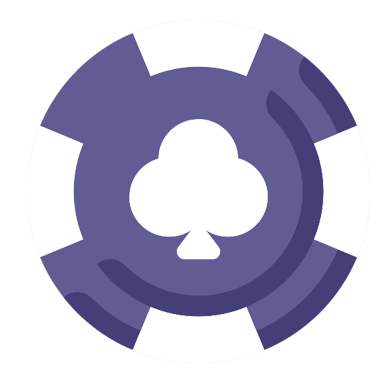
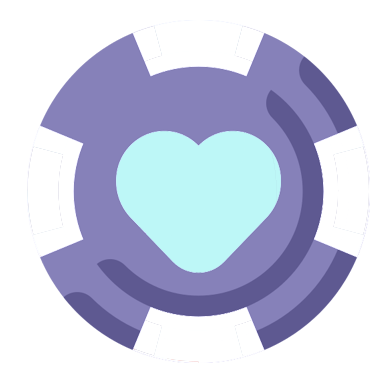
Agrega funcionalidad a personalización de fichas, boton ayuda

diff --git a/Entregable2/js/main.js b/Entregable2/js/main.js
@@ -10,12 +10,13 @@ document.addEventListener("DOMContentLoaded", function () {
     cellImage.src = "images/board-image.png";
     ctx.drawImage(cellImage, 10, 10, cellImage.width, cellImage.height);
     let game = new Game(canvas, ctx, boardRow, boardCol);
-    
+
     //asigno eventos 
 
     document.querySelector("#play").addEventListener('click', function (e) {
         game.doCountdown();
         game.initGame();
+        game.nextTurn();
         game.enableTokens();
         disableEnableButtonsBoard(true);
     });
@@ -27,7 +28,7 @@ document.addEventListener("DOMContentLoaded", function () {
         disableEnableButtonsBoard(false);
         game.clearCountdown();
     });
-    
+
 
     document.querySelector("#board-5").addEventListener('click', function (e) {
         game.setBoardRow(4);
@@ -62,23 +63,44 @@ document.addEventListener("DOMContentLoaded", function () {
     });
 
     document.querySelector("#ficha-2").addEventListener('click', function (e) {
-        
+        let img = new Image();
+        img.src = 'images/ficha-roja-2.png';
+        game.setImageToChangeRed(img);
+        game.initGame();
     });
     document.querySelector("#ficha-3").addEventListener('click', function (e) {
-        
+        let img = new Image();
+        img.src = 'images/ficha-roja-3.png';
+        game.setImageToChangeRed(img);
+        game.initGame();
     });
     document.querySelector("#ficha-4").addEventListener('click', function (e) {
-        
+        let img = new Image();
+        img.src = 'images/ficha-roja-4.png';
+        game.setImageToChangeRed(img);
+        game.initGame();
     });
     document.querySelector("#ficha-azul-2").addEventListener('click', function (e) {
-        
+        let img = new Image();
+        img.src = 'images/ficha-azul-2.png';
+        game.setImageToChangeBlue(img);
+        game.initGame();
     });
     document.querySelector("#ficha-azul-3").addEventListener('click', function (e) {
-        
+        let img = new Image();
+        img.src = 'images/ficha-azul-3.png';
+        game.setImageToChangeBlue(img);
+        game.initGame();
     });
     document.querySelector("#ficha-azul-4").addEventListener('click', function (e) {
-        
+        let img = new Image();
+        img.src = 'images/ficha-azul-4.png';
+        game.setImageToChangeBlue(img);
+        game.initGame();
     });
+    document.querySelector("#help").addEventListener('click', function (e){
+        document.querySelector("#help-text").innerHTML = "Elegí el tamaño de tablero que te guste. Tené en cuenta que para ganar tendrás que alinear tantas fichas cómo filas tenga tu tablero elegido. Por ejemplo, si elegís el tablero de 6 x 5, precisarás 5 fichas alineadas para ganar. Una vez elegido el tablero, si querés personalizá tu ficha. Cuando estés listo dale a Jugar! Recordá que tenés 1 minuto para resolver el juego"
+    })
 
 
     //reseteo el timer

diff --git a/Entregable2/js/game.js b/Entregable2/js/game.js
@@ -14,6 +14,9 @@ class Game {
         this.player1 = null;
         this.player2 = null;
         this.turn = null;
+        this.imageToChangeRed = null;
+        this.imageToChangeBlue= null;
+
     }
     //se setea las filas
     setBoardRow(br) {
@@ -29,7 +32,15 @@ class Game {
         this.clearCanvas();
         this.createBoard();
         this.createTokens();
-        this.nextTurn();
+       // this.nextTurn();
+    }
+    setImageToChangeRed(img) {
+        this.imageToChangeRed = img;
+        console.log("seteo de imagen hecho")
+    }
+    setImageToChangeBlue(img) {
+        this.imageToChangeBlue = img;
+        console.log("seteo de imagen hecho")
     }
 
     createTokens() {//creo las fichas para cada jugador        
@@ -41,26 +52,26 @@ class Game {
         for (let index = 0; index < this.maxTokens / 2; index++) {
             let posY = this.canvas.height / 3 + 20 * index;
             let posX = this.canvas.width / 2 - this.boardCol * 50 - 20;
-            this.createToken(colorPlayer1, posX, posY);
+            this.createToken(colorPlayer1, posX, posY, this.imageToChangeRed);
 
         }
         //creo las fichas azules
         for (let index = 0; index < this.maxTokens / 2; index++) {
             let posY = this.canvas.height / 3 + 20 * index;
             let posX = this.canvas.width / 2 + this.boardCol * 50 + 20;
-            this.createToken(colorPlayer2, posX, posY);
+            this.createToken(colorPlayer2, posX, posY, this.imageToChangeBlue);
         }
         this.disableTokens();
     }
 
 
-    createToken(color, posX, posY) { //creo una ficha del color correspondiente
-        let token = new Token(posX, posY, color, this.ctx);
+    createToken(color, posX, posY, imageToChange) { //creo una ficha del color correspondiente
+        let token = new Token(posX, posY, color, this.ctx, imageToChange);
         token.draw()
         this.tokens.push(token);//coloco las fichas en ele arreglo de fichas
 
     }
-    //cero el tablero y lo dibujo, así omo también la zona d elanzamiento de fichas
+    //cero el tablero y lo dibujo, así como también la zona d elanzamiento de fichas
     createBoard() {
         this.board = new GameBoard(this.canvas, this.ctx, this.boardRow, this.boardCol);
         this.board.drawBoard();
@@ -179,7 +190,7 @@ class Game {
 
             let minutes = Math.floor((distance % (1000 * 60 * 60)) / (1000 * 60));
             let seconds = Math.floor((distance % (1000 * 60)) / 1000);
-            document.querySelector("#timer-title").innerHTML ="Te quedan:";
+            document.querySelector("#timer-title").innerHTML = "Te quedan:";
             document.querySelector("#timer").innerHTML = "0" + minutes + ": " + ("0" + seconds).slice(-2);
             if (distance < 0) {
                 clearInterval(this.countdown);//reseteo

diff --git a/Entregable2/css/style.css b/Entregable2/css/style.css
@@ -53,57 +53,72 @@ img#logo {
 #game {
     display: flex;
 }
-i{
-    margin-right:5px;
+
+i {
+    margin-right: 5px;
 }
+
 #canvas {
-    box-shadow: 0 2px 5px rgba(0,0,0,0.07);
-    margin-right: 20px; 
-               
+    box-shadow: 0 2px 5px rgba(0, 0, 0, 0.07);
+    margin-right: 20px;
 }
-#timer{
+
+#timer {
     font-size: 45px;
     color: #504B83;
     margin-top: 0px;
 }
-#msj{
-    color: #504B83; 
+
+#msj {
+    color: #504B83;
     font-size: 24px;
     font-weight: 600;
 }
-#board-sizes p{
-    margin-bottom: 5px;;
+
+#board-sizes p {
+    margin-bottom: 5px;
+    ;
 }
-#board-5:disabled,#board-6:disabled, #board-7:disabled, #board-8:disabled,#board-5:disabled:hover,#board-6:disabled:hover, #board-7:disabled:hover, #board-8:disabled:hover{
+
+#board-5:disabled, #board-6:disabled, #board-7:disabled, #board-8:disabled, #board-5:disabled:hover, #board-6:disabled:hover, #board-7:disabled:hover, #board-8:disabled:hover {
     color: #b6b6b7;
-    border: 1px solid #b6b6b7; 
+    border: 1px solid #b6b6b7;
     background-color: white;
 }
 
-#tokens button{
+#tokens button {
     background-color: #fafafa;
-    border:none;
-    width:100px;
+    border: none;
+    width: 100px;
 }
-#tokens img{
-    width:70%;
+
+#tokens img {
+    width: 70%;
 }
-#tokens div{
-    display:flex;
+
+#tokens div {
+    display: flex;
 }
-#ficha-2:disabled, #ficha-3:disabled,#ficha-4:disabled,#ficha-azul-2:disabled,#ficha-azul-3:disabled, #ficha-azul-4:disabled{
+
+#ficha-2:disabled, #ficha-3:disabled, #ficha-4:disabled, #ficha-azul-2:disabled, #ficha-azul-3:disabled, #ficha-azul-4:disabled {
     filter: grayscale(1);
     opacity: 0.4;
 }
-#ficha-2, #ficha-3,#ficha-4,#ficha-azul-2,#ficha-azul-3, #ficha-azul-4{
+
+#ficha-2, #ficha-3, #ficha-4, #ficha-azul-2, #ficha-azul-3, #ficha-azul-4 {
     transition: all 300ms ease-out;
 }
 
-#ficha-2:hover, #ficha-3:hover,#ficha-4:hover,#ficha-azul-2:hover,#ficha-azul-3:hover, #ficha-azul-4:hover{
+#ficha-2:hover, #ficha-3:hover, #ficha-4:hover, #ficha-azul-2:hover, #ficha-azul-3:hover, #ficha-azul-4:hover {
     transform: scale(1.1);
     transition: all 300ms ease-in;
 }
-#timer-title{
+
+#timer-title {
     margin-bottom: 5px;
 }
 
+#help-text {
+    font-size: 13px;
+    color: #353535;
+}

diff --git a/Entregable2/js/token.js b/Entregable2/js/token.js
@@ -1,8 +1,9 @@
 "use strict";
 class Token extends Figure {
 
-    constructor(posX, posY, color, context) {
+    constructor(posX, posY, color, context, imageToChange) {
         super(posX, posY, context, color);
+        this.imageToChange = imageToChange;
         this.redToken = new Image();
         this.redToken.src = "images/fichas-roja.png";
         this.blueToken = new Image();
@@ -17,7 +18,7 @@ class Token extends Figure {
     //se carga la imágen
     loadImages() {
         this.redToken.onload, this.blueToken.onload = function () {
-            this.draw();
+            this.draw();             
         }.bind(this);
     }
 
@@ -25,9 +26,18 @@ class Token extends Figure {
     draw() {
         let rt = 'red';
         if (this.color == rt) {
-            this.ctx.drawImage(this.redToken, this.posX, this.posY, this.sizeToken, this.sizeToken);//dibujo rojas
+            if (this.imageToChange == null) {
+                this.ctx.drawImage(this.redToken, this.posX, this.posY, this.sizeToken, this.sizeToken);//dibujo rojas con la imágen por defecto
+            } else {
+                this.ctx.drawImage(this.imageToChange, this.posX, this.posY, this.sizeToken, this.sizeToken);
+            }
+
         } else {
-            this.ctx.drawImage(this.blueToken, this.posX, this.posY, this.sizeToken, this.sizeToken);//dibujo azules
+            if (this.imageToChange == null) {
+                this.ctx.drawImage(this.blueToken, this.posX, this.posY, this.sizeToken, this.sizeToken);//dibujo azules con la imágen por defecto
+            } else {
+                this.ctx.drawImage(this.imageToChange, this.posX, this.posY, this.sizeToken, this.sizeToken);
+            }
         }
     }
 

diff --git a/Entregable2/index.html b/Entregable2/index.html
@@ -21,6 +21,8 @@
         <aside>
             <button id="play" class="btn"><i class="fas fa-play"></i>Jugar</button>
             <button id="reset" class="btn"><i class="fas fa-undo-alt"></i>Reintentar</button>
+            <button id="help" class="btn"><i class="fas fa-question-circle"></i>Ayuda</button>
+            <p id="help-text"> </p>
             <div id="board-sizes">
                 <p>Elegí tu tamaño de tablero:</p>
                 <button id="board-5" class="btn"><i class="fas fa-chess-board"></i>5 x 4</button>
